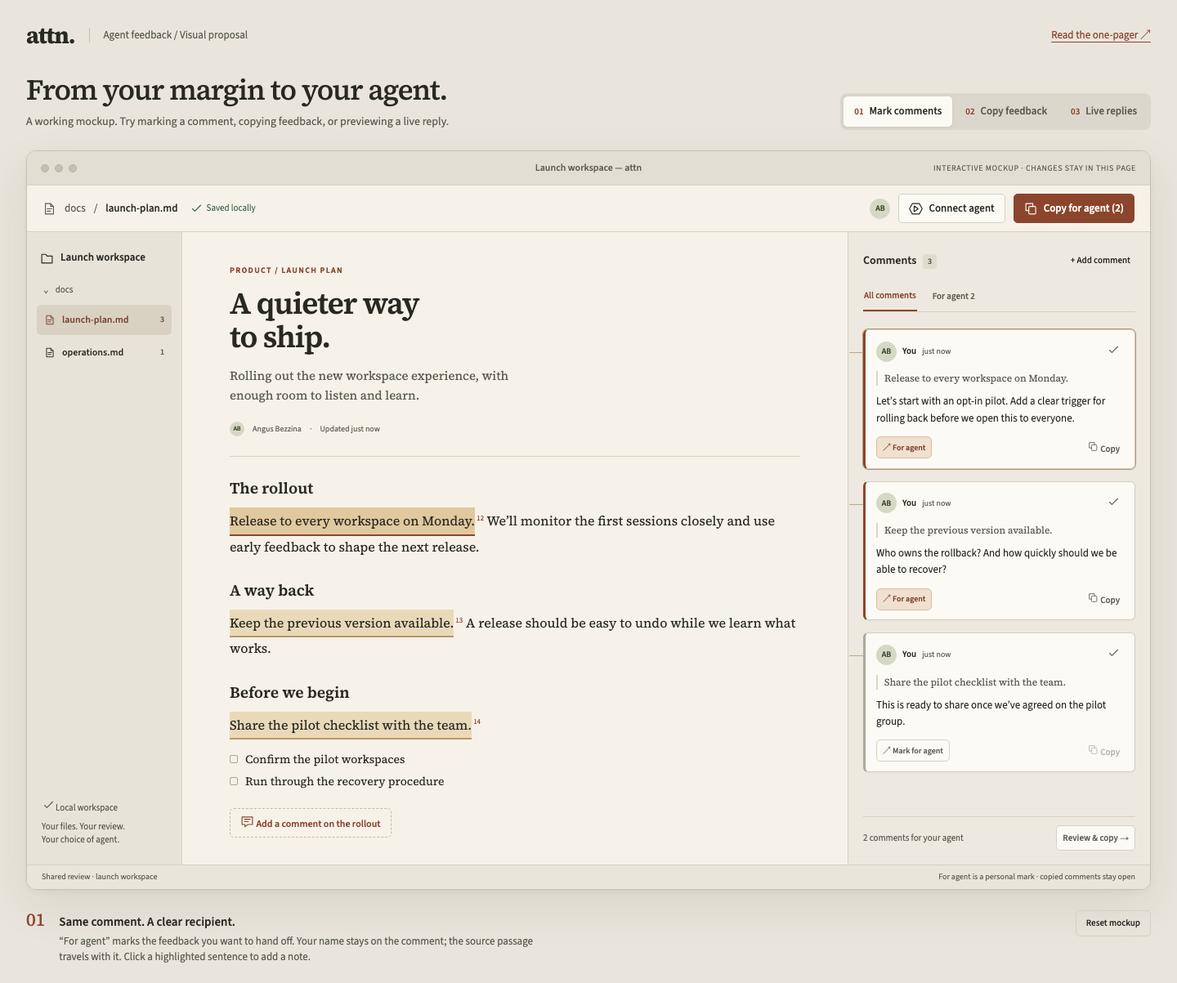
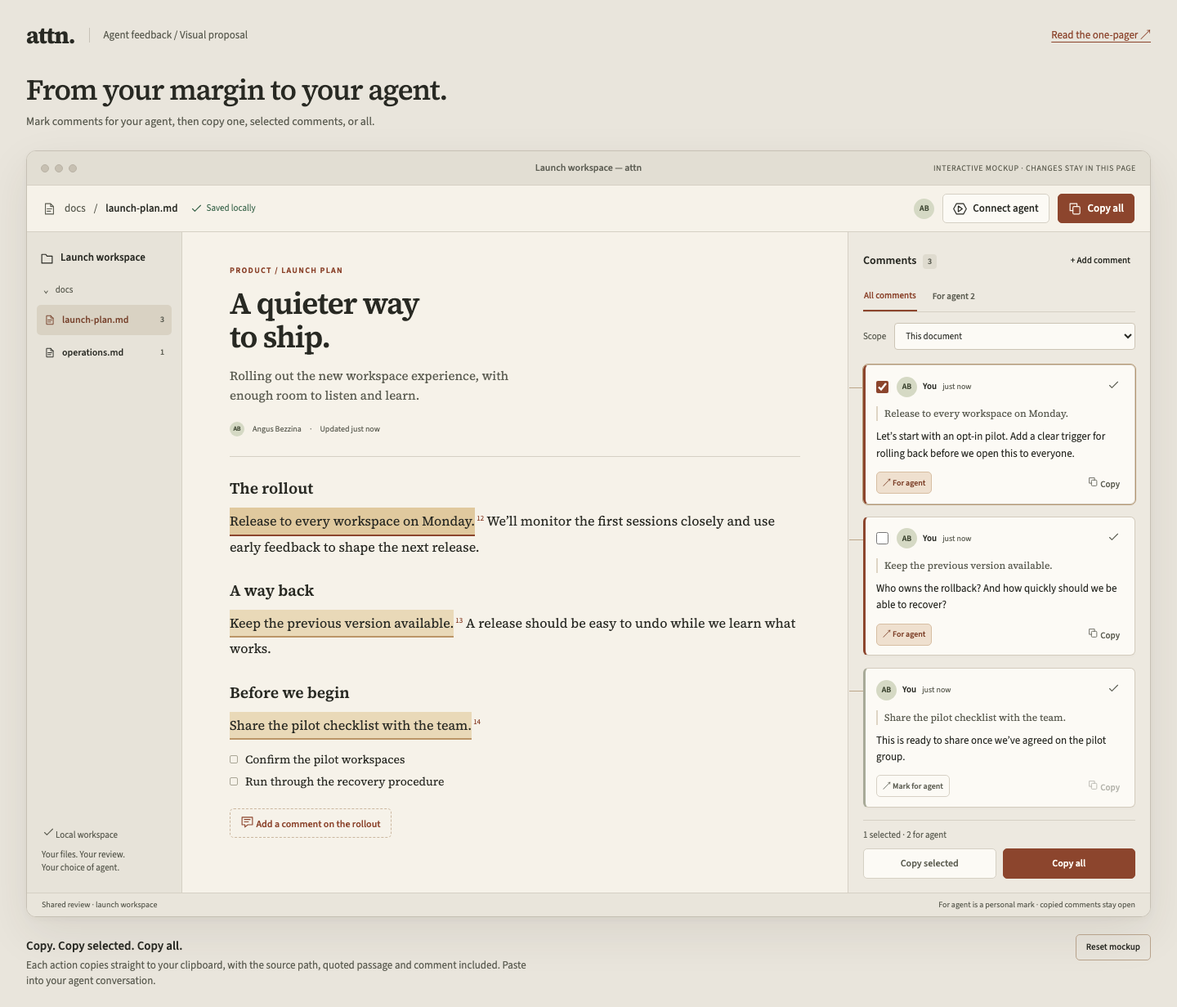
docs: make agent comment copying direct

diff --git a/planning/collab/agent-margin-feedback.html b/planning/collab/agent-margin-feedback.html
@@ -227,10 +227,6 @@ OTHER DEALINGS IN THE FONT SOFTWARE.
     .intro { display: flex; justify-content: space-between; gap: 24px; align-items: end; margin: 7px 0 25px; }
     h1 { font: 500 35px/1.2 var(--serif); letter-spacing: -.03em; margin: 0 0 8px; }
     .intro p { margin: 0; color: var(--muted); font-size: 14px; }
-    .scenes { display: flex; gap: 3px; padding: 4px; background: #dcd7cc; border-radius: 8px; flex-shrink: 0; }
-    .scenes button { border: 0; background: transparent; color: #5b5b50; padding: 9px 13px; font-size: 13px; }
-    .scenes button[aria-pressed="true"] { background: var(--card); color: var(--ink); box-shadow: 0 1px 4px #403a2214; }
-    .scenes span { color: var(--accent); margin-right: 7px; font-size: 11px; }
     .app { border: 1px solid #c6c0b4; border-radius: 12px; background: var(--paper); box-shadow: 0 20px 55px #38302217, 0 3px 8px #38302209; overflow: hidden; }
     .titlebar { height: 42px; display: flex; align-items: center; padding: 0 17px; background: #e2ded3; border-bottom: 1px solid var(--line); gap: 20px; }
     .traffic { display: flex; gap: 7px; }
@@ -266,7 +262,6 @@ OTHER DEALINGS IN THE FONT SOFTWARE.
     .annotation:hover { background: #e1cca1; }
     .annotation.active { background: #e0c99e; box-shadow: 0 2px 0 var(--accent); }
     .annotation:focus-visible { outline: 2px solid var(--accent); outline-offset: 3px; }
-    .annotation.accepted { background: #dce7d7; box-shadow: 0 2px 0 #6f906e; }
     .margin-number { font: 9px var(--sans); vertical-align: super; color: var(--accent); margin-left: 2px; }
     .checklist { padding: 0; list-style: none; font: 14px/1.9 var(--serif); margin: 13px 0 0; }
     .checklist li { display: flex; gap: 9px; align-items: baseline; }
@@ -300,7 +295,6 @@ OTHER DEALINGS IN THE FONT SOFTWARE.
     .hex { clip-path: polygon(25% 0%,75% 0%,100% 50%,75% 100%,25% 100%,0% 50%); width: 21px; height: 21px; display: grid; place-items: center; color: #fff; background: var(--violet); font-size: 13px; flex-shrink: 0; }
     .reply p { font-size: 12px; margin: 0 0 9px; }
     .diff { color: #35553e; background: #e9eee2; border-radius: 4px; padding: 9px; font: 12px/1.6 var(--serif); margin-bottom: 9px; }
-    .accept { background: #e1ead9; color: #35533b; border-color: #b8c8ae; min-height: 29px; padding: 4px 9px; font-size: 11px; }
     .delivery { color: var(--violet); font-size: 11px; margin: 10px 0 0; display: flex; gap: 7px; align-items: center; }
     .delivery::before { content: ""; height: 5px; width: 5px; border-radius: 50%; background: currentColor; }
     .margin-footer { margin-top: auto; padding: 10px 0 0; border-top: 1px solid var(--line); display: flex; align-items: center; justify-content: space-between; gap: 10px; font-size: 11px; color: var(--muted); }
@@ -313,7 +307,6 @@ OTHER DEALINGS IN THE FONT SOFTWARE.
     .dot { width: 6px; height: 6px; border-radius: 50%; background: var(--green); flex-shrink: 0; }
     .app-status { padding: 7px 18px; border-top: 1px solid var(--line); font-size: 10px; color: var(--muted); display: flex; justify-content: space-between; gap: 12px; background: #e9e5db; }
     .caption { padding: 21px 0 22px; display: flex; gap: 17px; align-items: baseline; }
-    .caption .index { font: 22px var(--serif); color: var(--accent); }
     .caption h2 { font: 600 15px var(--sans); margin: 0 0 4px; }
     .caption p { margin: 0; color: var(--muted); font-size: 13px; max-width: 95ch; }
     .caption button { margin-left: auto; min-height: 31px; white-space: nowrap; background: transparent; font-size: 11px; }
@@ -323,19 +316,18 @@ OTHER DEALINGS IN THE FONT SOFTWARE.
     .dialog-head h2 { font: 550 25px/1.2 var(--serif); letter-spacing: -.02em; margin: 0 0 6px; }
     .dialog-head p { color: var(--muted); font-size: 12px; margin: 0; }
     .close { width: 30px; min-height: 30px; height: 30px; padding: 3px; background: transparent; border: 0; }
-    .handoff-grid { display: grid; grid-template-columns: 285px 1fr; }
-    .handoff-list { padding: 18px; border-right: 1px solid var(--line); background: var(--rail); }
     .field-label { display: block; font-size: 11px; font-weight: 600; color: var(--muted); margin-bottom: 6px; }
     select { padding: 7px 9px; background: var(--card); border: 1px solid #ccc4b5; border-radius: 4px; color: var(--ink); font-size: 12px; min-height: 35px; }
-    #scope { width: 100%; margin-bottom: 15px; }
-    .export-comment { display: flex; gap: 8px; align-items: start; border: 1px solid var(--line); padding: 11px; border-radius: 5px; margin-bottom: 9px; background: var(--card); }
-    .export-comment input { margin-top: 3px; accent-color: var(--accent); width: 14px; height: 14px; flex-shrink: 0; }
-    .export-comment strong { font-size: 11px; font-weight: 600; display: block; }
-    .export-comment p { font-size: 12px; margin: 4px 0; }
-    .export-comment small { font-size: 10px; color: var(--muted); }
-    .copy-preview { min-width: 0; padding: 18px; }
-    .preview-head { display: flex; align-items: center; justify-content: space-between; gap: 14px; margin-bottom: 11px; font-size: 11px; color: var(--muted); }
-    #packet { width: 100%; min-height: 302px; resize: vertical; display: block; padding: 14px; background: var(--card); border: 1px solid var(--line); border-radius: 5px; color: #48493d; font: 11px/1.7 ui-monospace, monospace; }
+    .scope-row { display: flex; align-items: center; gap: 10px; margin: -8px 0 18px; color: var(--muted); font-size: 11px; }
+    #scope { flex: 1; min-width: 0; min-height: 31px; font-size: 11px; }
+    .select-comment { width: 15px; height: 15px; margin: 0 3px 0 0; accent-color: var(--accent); }
+    .source-path { font-size: 10px; color: var(--muted); margin: -3px 0 9px; overflow-wrap: anywhere; }
+    .margin-footer { flex-direction: column; align-items: stretch; gap: 8px; }
+    .batch-actions { display: flex; gap: 8px; }
+    .batch-actions button { flex: 1; min-height: 37px; font-size: 12px; }
+    #clipboard-fallback { margin-top: 14px; }
+    #clipboard-fallback label { font-size: 11px; color: var(--muted); display: block; margin-bottom: 6px; }
+    #clipboard-text { width: 100%; min-height: 302px; resize: vertical; display: block; padding: 14px; background: var(--card); border: 1px solid var(--line); border-radius: 5px; color: #48493d; font: 11px/1.7 ui-monospace, monospace; }
     .dialog-foot { padding: 15px 22px; border-top: 1px solid var(--line); display: flex; align-items: center; justify-content: space-between; gap: 20px; }
     .dialog-foot p { font-size: 11px; color: var(--muted); margin: 0; }
     .dialog-foot button { white-space: nowrap; }
@@ -351,21 +343,21 @@ OTHER DEALINGS IN THE FONT SOFTWARE.
     [hidden] { display: none !important; }
     .sr-only { position: absolute; width: 1px; height: 1px; padding: 0; margin: -1px; overflow: hidden; clip: rect(0,0,0,0); white-space: nowrap; border: 0; }
     @media (min-width: 1400px) { .workspace { grid-template-columns: 190px minmax(0, 1fr) 370px; } .document { padding-left: 58px; padding-right: 58px; } .document .prose { font-size: 16px; } }
-    @media (max-width: 1150px) { .frame { width: calc(100% - 36px); } .workspace { grid-template-columns: 150px minmax(0, 1fr) 310px; } .document { padding: 32px 27px; } .document h2 { font-size: 32px; } .intro { align-items: start; } h1 { font-size: 30px; } .scenes button { padding: 8px; font-size: 12px; } .intro p { max-width: 40ch; } }
-    @media (max-width: 900px) { .workspace { grid-template-columns: minmax(0, 1fr) 320px; } .files { display: none; } .intro { display: block; } .intro p { max-width: none; } .scenes { margin-top: 20px; width: max-content; } .saved, .owner-avatar { display: none; } }
+    @media (max-width: 1150px) { .frame { width: calc(100% - 36px); } .workspace { grid-template-columns: 150px minmax(0, 1fr) 310px; } .document { padding: 32px 27px; } .document h2 { font-size: 32px; } .intro { align-items: start; } h1 { font-size: 30px; }  .intro p { max-width: 40ch; } }
+    @media (max-width: 900px) { .workspace { grid-template-columns: minmax(0, 1fr) 320px; } .files { display: none; } .intro { display: block; } .intro p { max-width: none; }  .saved, .owner-avatar { display: none; } }
     @media (max-width: 650px) {
       .frame { width: calc(100% - 24px); } .page-head { padding: 15px 0; } .page-head .identity { gap: 10px; } .page-head .identity span + span { padding-left: 10px; font-size: 11px; } .page-head a { font-size: 11px; }
-      h1 { font-size: 29px; } .intro { margin-top: 14px; margin-bottom: 20px; } .intro p { font-size: 13px; } .scenes { width: 100%; } .scenes button { flex: 1; min-height: 42px; padding: 6px; font-size: 11px; } .scenes span { margin-right: 4px; }
+      h1 { font-size: 29px; } .intro { margin-top: 14px; margin-bottom: 20px; } .intro p { font-size: 13px; }
       .titlebar { padding: 0 12px; height: 33px; } .window-title { display: none; } .mock-label { font-size: 8px; } .traffic i { width: 8px; height: 8px; }
       .app-toolbar { padding: 10px 12px; gap: 10px; flex-wrap: wrap; } .breadcrumb { font-size: 11px; } .toolbar-actions { gap: 7px; } .toolbar-actions button { font-size: 10px; min-height: 33px; padding: 6px 8px; } .toolbar-actions .icon { width: 13px; }
       .workspace { display: block; } .document { padding: 27px 26px; } .document h2 { font-size: 31px; } .document .prose { font-size: 15px; } .doc-description { font-size: 14px; }
       .margin { border-left: 0; border-top: 1px solid var(--line); padding: 20px; } .margin-heading h2 { font-size: 16px; } .comment { padding: 15px; } .comment .body { font-size: 14px; } .comment blockquote { font-size: 13px; } .route, .copy-one, .resolve { min-height: 40px; } .comment-head { font-size: 12px; } .route { font-size: 12px; } .copy-one { font-size: 12px; } .comment::before { width: 17px; }
       .reply p, .diff { font-size: 13px; } .connection strong { font-size: 12px; } .connection p { font-size: 11px; } .connection button { min-height: 35px; } .margin-footer { margin-top: 15px; } .app-status span:last-child { display: none; }
       .caption { align-items: start; gap: 11px; } .caption p { font-size: 12px; } .caption button { font-size: 10px; padding: 5px; }
-      dialog { width: calc(100% - 22px); max-height: calc(100dvh - 28px); } .dialog-head { padding: 19px; } .dialog-head h2 { font-size: 23px; } .handoff-grid { grid-template-columns: 1fr; } .handoff-list { border-right: 0; border-bottom: 1px solid var(--line); padding: 14px; } #export-list { max-height: 170px; overflow: auto; } .copy-preview { padding: 14px; } #packet { min-height: 190px; } .dialog-foot { padding: 14px; gap: 12px; } .dialog-foot p { font-size: 10px; max-width: 20ch; }
+      dialog { width: calc(100% - 22px); max-height: calc(100dvh - 28px); } .dialog-head { padding: 19px; } .dialog-head h2 { font-size: 23px; }     #clipboard-text { min-height: 190px; } .dialog-foot { padding: 14px; gap: 12px; } .dialog-foot p { font-size: 10px; max-width: 20ch; }
     }
     @media (prefers-reduced-motion: no-preference) { .app { animation: arrive .4s ease-out both; } @keyframes arrive { from { opacity: .6; transform: translateY(7px); } to { opacity: 1; transform: none; } } }
-    @media print { .frame { width: 100%; } .scenes, .page-head a, #notice, .caption button { display: none; } .app { box-shadow: none; } .workspace { min-height: auto; } body { background: white; } }
+    @media print { .frame { width: 100%; } .page-head a, #notice, .caption button { display: none; } .app { box-shadow: none; } .workspace { min-height: auto; } body { background: white; } }
   </style>
 </head>
 <body>
@@ -380,20 +372,19 @@ OTHER DEALINGS IN THE FONT SOFTWARE.
   </defs></svg>
   <main class="frame">
     <header class="page-head"><div class="identity"><span class="wordmark">attn.</span><span>Agent feedback / Visual proposal</span></div><a href="agent-margin-feedback.md">Read the one-pager ↗</a></header>
-    <section class="intro" aria-labelledby="page-title"><div><h1>From your margin to your agent.</h1><p>A working mockup. Try marking a comment, copying feedback, or previewing a live reply.</p></div><nav class="scenes" aria-label="Prototype views"><button data-scene="mark" aria-pressed="true"><span>01</span>Mark comments</button><button data-scene="copy" aria-pressed="false"><span>02</span>Copy feedback</button><button data-scene="live" aria-pressed="false"><span>03</span>Live replies</button></nav></section>
+    <section class="intro" aria-labelledby="page-title"><div><h1 id="page-title">From your margin to your agent.</h1><p>Mark comments for your agent, then copy one, selected comments, or all.</p></div></section>
     <section class="app" aria-label="Proposed attn interface">
       <div class="titlebar"><div class="traffic" aria-hidden="true"><i></i><i></i><i></i></div><span class="window-title">Launch workspace — attn</span><span class="mock-label">Interactive mockup · changes stay in this page</span></div>
-      <div class="app-toolbar"><span class="breadcrumb"><svg class="icon" aria-hidden="true"><use href="#i-file"/></svg><span>docs</span><span>/</span><strong id="active-filename">launch-plan.md</strong></span><span class="saved"><svg class="icon" aria-hidden="true"><use href="#i-check"/></svg>Saved locally</span><div class="toolbar-actions"><span class="owner-avatar" title="You">AB</span><button id="agent-toggle"><svg class="icon" aria-hidden="true"><use href="#i-agent"/></svg><span id="agent-button-text">Connect agent</span></button><button class="primary" id="open-copy"><svg class="icon" aria-hidden="true"><use href="#i-copy"/></svg><span id="copy-button-text">Copy for agent (2)</span></button></div></div>
+      <div class="app-toolbar"><span class="breadcrumb"><svg class="icon" aria-hidden="true"><use href="#i-file"/></svg><span>docs</span><span>/</span><strong id="active-filename">launch-plan.md</strong></span><span class="saved"><svg class="icon" aria-hidden="true"><use href="#i-check"/></svg>Saved locally</span><div class="toolbar-actions"><span class="owner-avatar" title="You">AB</span><button id="agent-toggle"><svg class="icon" aria-hidden="true"><use href="#i-agent"/></svg><span id="agent-button-text">Connect agent</span></button><button class="primary" id="copy-all-toolbar"><svg class="icon" aria-hidden="true"><use href="#i-copy"/></svg><span>Copy all</span></button></div></div>
       <div class="workspace">
         <nav class="files" aria-label="Workspace files"><div class="project"><svg class="icon" aria-hidden="true"><use href="#i-folder"/></svg>Launch workspace</div><div class="folder">⌄ <span>docs</span></div><button class="file" data-doc="launch" aria-current="page"><svg class="icon" aria-hidden="true"><use href="#i-file"/></svg>launch-plan.md<span class="file-count">3</span></button><button class="file" data-doc="operations"><svg class="icon" aria-hidden="true"><use href="#i-file"/></svg>operations.md<span class="file-count">1</span></button><div class="files-bottom"><svg class="icon" aria-hidden="true"><use href="#i-check"/></svg>Local workspace<p>Your files. Your review.<br>Your choice of agent.</p></div></nav>
         <article class="document" id="document" aria-label="Document preview"></article>
-        <aside class="margin" aria-label="Review margin"><div class="margin-heading"><h2>Comments <span id="comment-count" class="count-badge">3</span></h2><button class="ghost" id="new-note">+ Add comment</button></div><div class="filter-tabs" aria-label="Comment filter"><button data-filter="all" aria-pressed="true">All comments</button><button data-filter="agent" aria-pressed="false">For agent <span id="agent-count">2</span></button></div><div class="connection" id="connection" hidden><span class="dot" aria-hidden="true"></span><div><strong id="connection-title">My agent is listening</strong><p>Scripted preview · no model connected</p></div><button id="pause">Pause</button></div><div id="comments"></div><div class="margin-footer"><span id="margin-status">2 comments for your agent</span><button id="copy-footer">Review & copy →</button></div></aside>
+        <aside class="margin" aria-label="Review margin"><div class="margin-heading"><h2>Comments <span id="comment-count" class="count-badge">3</span></h2><button class="ghost" id="new-note">+ Add comment</button></div><div class="filter-tabs" aria-label="Comment filter"><button data-filter="all" aria-pressed="true">All comments</button><button data-filter="agent" aria-pressed="false">For agent <span id="agent-count">2</span></button></div><div class="scope-row"><label for="scope">Scope</label><select id="scope"><option value="document">This document</option><option value="workspace">Whole workspace</option></select></div><div class="connection" id="connection" hidden><span class="dot" aria-hidden="true"></span><div><strong id="connection-title">My agent is listening</strong><p>Scripted preview · no model connected</p></div><button id="pause">Pause</button></div><div id="comments"></div><div class="margin-footer"><span id="margin-status">1 selected · 2 for agent</span><div class="batch-actions"><button id="copy-selected">Copy selected</button><button class="primary" id="copy-all">Copy all</button></div></div><div id="clipboard-fallback" hidden><label for="clipboard-text">Clipboard unavailable. Select and copy this text.</label><textarea id="clipboard-text" readonly spellcheck="false"></textarea></div></aside>
       </div>
       <div class="app-status"><span id="status-left">Shared review · launch workspace</span><span>For agent is a personal mark · copied comments stay open</span></div>
     </section>
-    <section class="caption" aria-live="polite"><span class="index" id="caption-number">01</span><div><h2 id="caption-title">Same comment. A clear recipient.</h2><p id="caption-body">“For agent” marks the feedback you want to hand off. Your name stays on the comment; the source passage travels with it. Click a highlighted sentence to add a note.</p></div><button id="reset">Reset mockup</button></section>
+    <section class="caption"><div><h2>Copy. Copy selected. Copy all.</h2><p>Each action copies straight to your clipboard, with the source path, quoted passage and comment included. Paste into your agent conversation.</p></div><button id="reset">Reset mockup</button></section>
   </main>
-  <dialog id="handoff" aria-labelledby="handoff-title"><div class="dialog-head"><div><h2 id="handoff-title">Copy feedback for your agent</h2><p>Everything needed to find the passage and make the change.</p></div><button class="close" id="close-copy" aria-label="Close copy panel"><svg class="icon" aria-hidden="true"><use href="#i-close"/></svg></button></div><div class="handoff-grid"><div class="handoff-list"><label for="scope" class="field-label">Include comments from</label><select id="scope"><option value="document">This document</option><option value="workspace">Whole workspace</option></select><div id="export-list"></div></div><div class="copy-preview"><div class="preview-head"><label for="packet">Exact clipboard preview</label><label class="sr-only" for="format">Feedback format</label><select id="format"><option value="markdown">Markdown</option><option value="json">JSON</option></select></div><textarea id="packet" readonly spellcheck="false"></textarea></div></div><div class="dialog-foot"><p>Paste into any agent conversation.<br>Your comments will remain open.</p><button class="primary" id="copy-selected">Copy 2 comments</button></div></dialog>
   <dialog id="composer" aria-labelledby="composer-title"><form id="compose-form"><div class="dialog-head"><div><h2 id="composer-title">Leave a comment</h2><p>On the selected passage</p></div><button class="close" type="button" id="close-composer" aria-label="Close comment composer"><svg class="icon" aria-hidden="true"><use href="#i-close"/></svg></button></div><div class="composer-body"><blockquote id="composer-quote"></blockquote><label class="sr-only" for="new-comment">Your comment</label><textarea id="new-comment" required maxlength="1200" placeholder="What would you like to change?"></textarea><label class="composer-choice"><input id="new-for-agent" type="checkbox" checked>For agent</label></div><div class="dialog-foot"><p>The author stays you.</p><button class="primary" type="submit">Post comment</button></div></form></dialog>
   <div id="notice" role="status" aria-live="polite" popover="manual"></div>
   <noscript><p class="frame">Enable JavaScript to see the interactive product mockup. <a href="agent-margin-feedback.md">Read the Markdown plan.</a></p></noscript>
@@ -404,23 +395,22 @@ OTHER DEALINGS IN THE FONT SOFTWARE.
     const icon = name => '<svg class="icon" aria-hidden="true"><use href="#i-' + name + '"/></svg>';
     const seed = [
       {id:'F-12', doc:'launch', path:'docs/launch-plan.md', section:'The rollout', quote:'Release to every workspace on Monday.', body:'Let’s start with an opt-in pilot. Add a clear trigger for rolling back before we open this to everyone.', marked:true, selected:true, replacement:'Start with a five-workspace opt-in pilot on Monday. Roll back if the error rate exceeds 1% for five minutes.'},
-      {id:'F-13', doc:'launch', path:'docs/launch-plan.md', section:'A way back', quote:'Keep the previous version available.', body:'Who owns the rollback? And how quickly should we be able to recover?', marked:true, selected:true, replacement:'The on-call engineer owns rollback. Keep the previous version ready and target recovery within ten minutes.'},
-      {id:'F-14', doc:'launch', path:'docs/launch-plan.md', section:'Before we begin', quote:'Share the pilot checklist with the team.', body:'This is ready to share once we’ve agreed on the pilot group.', marked:false, selected:true},
-      {id:'F-15', doc:'operations', path:'docs/operations.md', section:'Backups', quote:'Backups run each night.', body:'Add a restore drill before the pilot starts.', marked:true, selected:true, replacement:'Backups run nightly. Complete and document a restore drill before starting the pilot.'}
+      {id:'F-13', doc:'launch', path:'docs/launch-plan.md', section:'A way back', quote:'Keep the previous version available.', body:'Who owns the rollback? And how quickly should we be able to recover?', marked:true, selected:false, replacement:'The on-call engineer owns rollback. Keep the previous version ready and target recovery within ten minutes.'},
+      {id:'F-14', doc:'launch', path:'docs/launch-plan.md', section:'Before we begin', quote:'Share the pilot checklist with the team.', body:'This is ready to share once we’ve agreed on the pilot group.', marked:false, selected:false},
+      {id:'F-15', doc:'operations', path:'docs/operations.md', section:'Backups', quote:'Backups run each night.', body:'Add a restore drill before the pilot starts.', marked:true, selected:false, replacement:'Backups run nightly. Complete and document a restore drill before starting the pilot.'}
     ];
-    let comments = structuredClone(seed), currentDoc = 'launch', filter = 'all', scene = 'mark', activeId = 'F-12', listening = false, connected = false, sequence = 16, selectedQuote = seed[0], noticeTimer;
+    let comments = structuredClone(seed), currentDoc = 'launch', filter = 'all', activeId = 'F-12', listening = false, connected = false, sequence = 16, selectedQuote = seed[0], noticeTimer;
     const timers = new Map();
-    function openComments() { return comments.filter(c => c.doc === currentDoc && !c.resolved); }
+    function openComments() { return comments.filter(c => !c.resolved && ($('scope').value === 'workspace' || c.doc === currentDoc)); }
     function marked() { return openComments().filter(c => c.marked); }
     function exportable() { return comments.filter(c => c.marked && !c.resolved && ($('scope').value === 'workspace' || c.doc === currentDoc)); }
     function packet(items) { return {schema:'attn.feedback.v1', workspace:'launch-workspace', instructions:['Address this feedback in the available source files.','Check each quote against the current source before editing.','If a source is unavailable or ambiguous, report it instead of guessing.','Return changes and questions by feedback ID.'], feedback:[...items].sort((a,b)=>a.path.localeCompare(b.path)||Number(a.id.slice(2))-Number(b.id.slice(2))).map(c=>({id:c.id, threadId:'t-'+c.id.slice(2), revision:1, sourcePath:c.path, snapshotId:'s-4', section:c.section, anchorStatus:'exact', quote:c.quote, request:c.body, replies:c.replied?[{author:'My agent (simulation)',body:c.replacement||'I would inspect the source and propose an update here.'}]:[]}))}; }
     function serialize(items) {
       const data=packet(items);
-      if($('format').value==='json') return JSON.stringify(data,null,2);
       return '# attn feedback v1\nWorkspace: '+data.workspace+'\n\n'+data.instructions.join('\n')+'\n\n'+data.feedback.map(c=>'['+c.id+'] '+c.sourcePath+'\nThread: '+c.threadId+' · Snapshot: '+c.snapshotId+'\nSection: '+c.section+' · Anchor: '+c.anchorStatus+'\n\n> '+c.quote+'\n\nRequest: '+c.request+c.replies.map(r=>'\n\nReply ('+r.author+'): '+r.body).join('')).join('\n\n---\n\n');
     }
     function notify(message) { clearTimeout(noticeTimer); $('notice').textContent=message; if(!$('notice').matches(':popover-open')) $('notice').showPopover(); noticeTimer=setTimeout(()=>{$('notice').hidePopover();$('notice').textContent='';},4000); }
-    function annotation(c) { return '<button class="annotation '+(activeId===c.id?'active ':'')+(c.accepted?'accepted':'')+'" data-anchor="'+c.id+'" aria-label="Comment on: '+esc(c.accepted?c.replacement:c.quote)+'">'+esc(c.accepted?c.replacement:c.quote)+'</button><sup class="margin-number">'+c.id.slice(2)+'</sup>'; }
+    function annotation(c) { return '<button class="annotation '+(activeId===c.id?'active':'')+'" data-anchor="'+c.id+'" aria-label="Comment on: '+esc(c.quote)+'">'+esc(c.quote)+'</button><sup class="margin-number">'+c.id.slice(2)+'</sup>'; }
     function renderDocument() {
       if(currentDoc==='launch') {
         const [a,b,c]=comments;
@@ -432,16 +422,7 @@ OTHER DEALINGS IN THE FONT SOFTWARE.
     }
     function renderComments() {
       const shown=openComments().filter(c=>filter==='all'||c.marked);
-      $('comments').innerHTML=shown.map(c=>'<article class="comment '+(c.marked?'marked ':'')+(activeId===c.id?'active':'')+'" aria-label="Comment '+c.id+'"><header class="comment-head"><span class="avatar" aria-hidden="true">AB</span><strong>You</strong><time>just now</time><button class="resolve" data-action="resolve" data-id="'+c.id+'" aria-label="Resolve '+c.id+'">'+icon('check')+'</button></header><blockquote>'+esc(c.quote)+'</blockquote><p class="body">'+esc(c.body)+'</p><div class="comment-actions"><button class="route" id="mark-'+c.id+'" data-action="mark" data-id="'+c.id+'" aria-label="For agent: '+c.id+'" aria-pressed="'+c.marked+'">'+(c.marked?'↗ For agent':'↗ Mark for agent')+'</button><button class="copy-one" id="copy-'+c.id+'" data-action="copy" data-id="'+c.id+'" aria-label="Copy '+c.id+'" '+(c.marked?'':'disabled')+'>'+icon('copy')+' Copy</button></div>'+(c.replied?'<div class="reply"><div class="agent-author"><span class="hex" aria-hidden="true">⊳</span>My agent <span>· preview</span></div><p>'+ (c.replacement?'Here’s a proposed update:':'I would inspect the source and propose a change for this feedback. This response is simulated.')+'</p>'+(c.replacement?'<div class="diff">+ '+esc(c.replacement)+'</div><button class="accept" data-action="accept" data-id="'+c.id+'" '+(c.accepted?'disabled':'')+'>'+(c.accepted?'✓ Applied to preview':'Accept in preview')+'</button>':'')+'</div>':c.status?'<p class="delivery">'+esc(c.status)+'</p>':'')+'</article>').join('')||'<p class="empty">'+(filter==='agent'?'Mark a comment “For agent” to see it here.':'All comments in this document are resolved.')+'</p>';
-    }
-    function renderExport() {
-      const focused=document.activeElement?.id;
-      $('export-list').innerHTML=exportable().map(c=>'<label class="export-comment"><input id="select-'+c.id+'" data-select="'+c.id+'" type="checkbox" '+(c.selected?'checked':'')+' aria-label="Include '+c.id+'"><span><strong>'+esc(c.path)+'</strong><p>'+esc(c.body)+'</p><small>'+c.id+' · '+esc(c.section)+'</small></span></label>').join('')||'<p class="empty">No open comments marked for agent in this scope.</p>';
-      const selected=exportable().filter(c=>c.selected);
-      $('packet').value=serialize(selected);
-      $('copy-selected').textContent='Copy '+selected.length+(selected.length===1?' comment':' comments');
-      $('copy-selected').disabled=!selected.length;
-      if(focused&&$(focused)) $(focused).focus({preventScroll:true});
+      $('comments').innerHTML=shown.map(c=>'<article class="comment '+(c.marked?'marked ':'')+(activeId===c.id?'active':'')+'" aria-label="Comment '+c.id+'"><header class="comment-head">'+(c.marked?'<input class="select-comment" id="select-'+c.id+'" data-select="'+c.id+'" type="checkbox" '+(c.selected?'checked':'')+' aria-label="Select '+c.id+'">':'')+'<span class="avatar" aria-hidden="true">AB</span><strong>You</strong><time>just now</time><button class="resolve" data-action="resolve" data-id="'+c.id+'" aria-label="Resolve '+c.id+'">'+icon('check')+'</button></header>'+($('scope').value==='workspace'?'<p class="source-path">'+esc(c.path)+'</p>':'')+'<blockquote>'+esc(c.quote)+'</blockquote><p class="body">'+esc(c.body)+'</p><div class="comment-actions"><button class="route" id="mark-'+c.id+'" data-action="mark" data-id="'+c.id+'" aria-label="For agent: '+c.id+'" aria-pressed="'+c.marked+'">'+(c.marked?'↗ For agent':'↗ Mark for agent')+'</button><button class="copy-one" id="copy-'+c.id+'" data-action="copy" data-id="'+c.id+'" aria-label="Copy '+c.id+'" '+(c.marked?'':'disabled')+'>'+icon('copy')+' Copy</button></div>'+(c.replied?'<div class="reply"><div class="agent-author"><span class="hex" aria-hidden="true">⊳</span>My agent <span>· preview</span></div><p>'+ (c.replacement?'Here’s a proposed update:':'I would inspect the source and propose a change for this feedback. This response is simulated.')+'</p>'+(c.replacement?'<div class="diff">+ '+esc(c.replacement)+'</div>':'')+'</div>':c.status?'<p class="delivery">'+esc(c.status)+'</p>':'')+'</article>').join('')||'<p class="empty">'+(filter==='agent'?'Mark a comment “For agent” to see it here.':'All comments in this document are resolved.')+'</p>';
     }
     function render() {
       const focused=document.activeElement?.id;
@@ -449,18 +430,15 @@ OTHER DEALINGS IN THE FONT SOFTWARE.
       $('active-filename').textContent=currentDoc==='launch'?'launch-plan.md':'operations.md';
       $('comment-count').textContent=openComments().length;
       $('agent-count').textContent=marked().length;
-      $('copy-button-text').textContent='Copy for agent ('+marked().length+')';
-      $('margin-status').textContent=marked().length+' comments for your agent';
+      $('copy-all').disabled=$('copy-all-toolbar').disabled=!exportable().length;
+      $('copy-selected').disabled=!exportable().some(c=>c.selected);
+      $('margin-status').textContent=exportable().filter(c=>c.selected).length+' selected · '+exportable().length+' for agent';
       $('connection').hidden=!connected;
       $('connection-title').textContent=listening?'My agent is listening':'My agent is paused';
       $('pause').textContent=listening?'Pause':'Resume';
       $('agent-button-text').textContent=connected?(listening?'Listening':'Paused'):'Connect agent';
       document.querySelectorAll('[data-doc]').forEach(b=>{if(b.dataset.doc===currentDoc)b.setAttribute('aria-current','page');else b.removeAttribute('aria-current');});
       document.querySelectorAll('[data-filter]').forEach(b=>b.setAttribute('aria-pressed',String(b.dataset.filter===filter)));
-      document.querySelectorAll('[data-scene]').forEach(b=>b.setAttribute('aria-pressed',String(b.dataset.scene===scene)));
-      const captions={mark:['01','Same comment. A clear recipient.','“For agent” marks the feedback you want to hand off. Your name stays on the comment; the source passage travels with it. Click a highlighted sentence to add a note.'],copy:['02','A useful handoff, in one paste.','Choose one comment or collect the open feedback across your workspace. The packet includes source paths, exact quotes and your requests, ready for any agent conversation.'],live:['03','A conversation beside the work.','A connected agent receives marked comments and responds in the original thread. Try accepting a proposed change in the preview. Replies here are scripted; no agent or model is connected.']};
-      [$('caption-number').textContent,$('caption-title').textContent,$('caption-body').textContent]=captions[scene];
-      if($('handoff').open) renderExport();
       if(focused&&$(focused)) $(focused).focus({preventScroll:true});
     }
     function schedule(c) {
@@ -473,15 +451,15 @@ OTHER DEALINGS IN THE FONT SOFTWARE.
       },500));
     }
     function cancel(c) {clearTimeout(timers.get(c.id));timers.delete(c.id);c.status='';}
-    function connect() {connected=true;listening=true;scene='live';comments.forEach(schedule);render();}
-    function openCopy() {scene='copy';$('scope').value='document';render();$('handoff').showModal();renderExport();}
+    function connect() {connected=true;listening=true;comments.forEach(schedule);render();}
     function compose(c) {selectedQuote=c;$('composer-quote').textContent=c.quote;$('new-comment').value='';$('new-for-agent').checked=true;$('composer').showModal();$('new-comment').focus();}
     async function copy(items) {
+      if(!items.length)return;
+      $('clipboard-fallback').hidden=true;
       const text=serialize(items);
       try {if(!navigator.clipboard?.writeText)throw new Error('Clipboard unavailable');await navigator.clipboard.writeText(text);notify('Copied '+items.length+(items.length===1?' comment.':' comments.')+' Threads stay open.');}
-      catch {if(!$('handoff').open){$('handoff').showModal();renderExport();}$('packet').value=text;$('packet').focus();$('packet').select();notify('Preview selected. Use your Copy shortcut to copy the text.');}
+      catch {$('clipboard-fallback').hidden=false;$('clipboard-text').value=text;$('clipboard-text').focus();$('clipboard-text').select();notify('Use your Copy shortcut to copy the selected text.');}
     }
-    document.querySelectorAll('[data-scene]').forEach(b=>b.addEventListener('click',()=>{if(b.dataset.scene==='copy')openCopy();else if(b.dataset.scene==='live')connect();else{scene='mark';listening=false;comments.forEach(cancel);render();}}));
     document.querySelectorAll('[data-doc]').forEach(b=>b.addEventListener('click',()=>{currentDoc=b.dataset.doc;activeId=comments.find(c=>c.doc===currentDoc).id;render();}));
     document.querySelectorAll('[data-filter]').forEach(b=>b.addEventListener('click',()=>{filter=b.dataset.filter;render();}));
     $('document').addEventListener('click',e=>{const b=e.target.closest('[data-anchor],[data-compose]');if(!b)return;const id=b.dataset.anchor||b.dataset.compose;activeId=id;render();compose(comments.find(c=>c.id===id));});
@@ -490,19 +468,18 @@ OTHER DEALINGS IN THE FONT SOFTWARE.
       if(b.dataset.action==='mark'){c.marked=!c.marked;c.marked?schedule(c):cancel(c);render();}
       if(b.dataset.action==='copy')copy([c]);
       if(b.dataset.action==='resolve'){c.resolved=true;cancel(c);render();notify('Comment resolved in this preview.');}
-      if(b.dataset.action==='accept'){c.accepted=true;render();notify('Applied to the document preview. The comment remains open.');}
     });
-    $('open-copy').addEventListener('click',openCopy);$('copy-footer').addEventListener('click',openCopy);
-    $('close-copy').addEventListener('click',()=>$('handoff').close());
+    $('copy-all-toolbar').addEventListener('click',()=>copy(exportable()));
+    $('copy-all').addEventListener('click',()=>copy(exportable()));
     $('close-composer').addEventListener('click',()=>$('composer').close());
-    $('scope').addEventListener('change',renderExport);$('format').addEventListener('change',renderExport);
-    $('export-list').addEventListener('change',e=>{if(!e.target.dataset.select)return;comments.find(c=>c.id===e.target.dataset.select).selected=e.target.checked;renderExport();});
+    $('scope').addEventListener('change',render);
+    $('comments').addEventListener('change',e=>{if(!e.target.dataset.select)return;comments.find(c=>c.id===e.target.dataset.select).selected=e.target.checked;render();});
     $('copy-selected').addEventListener('click',()=>copy(exportable().filter(c=>c.selected)));
     $('agent-toggle').addEventListener('click',()=>{if(!connected)connect();else{listening=!listening;comments.forEach(c=>listening?schedule(c):cancel(c));render();}});
     $('pause').addEventListener('click',()=>{listening=!listening;comments.forEach(c=>listening?schedule(c):cancel(c));render();});
     $('new-note').addEventListener('click',()=>compose(comments.find(c=>c.doc===currentDoc)));
     $('compose-form').addEventListener('submit',e=>{e.preventDefault();const body=$('new-comment').value.trim();if(!body)return;const c={id:'F-'+sequence++,doc:currentDoc,path:selectedQuote.path,section:selectedQuote.section,quote:selectedQuote.quote,body,marked:$('new-for-agent').checked,selected:true};comments.push(c);activeId=c.id;filter='all';$('composer').close();schedule(c);render();notify('Comment posted'+(c.marked?' for agent.':'.'));});
-    $('reset').addEventListener('click',()=>{comments.forEach(cancel);comments=structuredClone(seed);currentDoc='launch';filter='all';scene='mark';activeId='F-12';listening=false;connected=false;sequence=16;$('scope').value='document';$('format').value='markdown';$('handoff').close();$('composer').close();render();notify('Mockup reset.');});
+    $('reset').addEventListener('click',()=>{comments.forEach(cancel);comments=structuredClone(seed);currentDoc='launch';filter='all';activeId='F-12';listening=false;connected=false;sequence=16;$('scope').value='document';$('clipboard-fallback').hidden=true;$('composer').close();render();notify('Mockup reset.');});
     render();
   </script>
 </body>

diff --git a/planning/collab/agent-margin-feedback.md b/planning/collab/agent-margin-feedback.md
@@ -2,14 +2,14 @@
 
 **Proposal for review · 7 September 2026 · attn-qiwt**
 
-[Visual product mockup](agent-margin-feedback.html) · [Still preview](agent-margin-feedback-preview.png) · Try marking, copying and live replies. Product implementation follows review.
+[Visual product mockup](agent-margin-feedback.html) · [Still preview](agent-margin-feedback-preview.png) · Copy directly from the margin. Product implementation follows review.
 
 **Outcome.** Mark margin comments **For agent**, copy one or a batch into any agent conversation, and get useful changes without re-explaining the document. An optional live mode delivers the same feedback automatically and brings replies back into the original threads.
 
 ## The experience
 
 - Add **For agent** to the comment composer and existing thread menu. Keep the human author; show a small recipient badge. A marked thread includes its quoted passage and conversation.
-- Offer **Copy for agent**, **Copy selected**, and **Copy all open**, scoped to a document or workspace. Show the count and exact preview. Exclude resolved threads by default; copying never resolves a comment.
+- Offer **Copy** on each marked comment, inline checkboxes for **Copy selected**, and **Copy all**, scoped to a document or workspace. Each action writes directly to the clipboard: no review panel, preview step or confirmation. Show the selection count; exclude resolved threads by default. Copying never resolves a comment.
 - Persist personal routing separately from shared events, keyed by workspace, room and thread. Marks survive reload on that device; comments retain their room visibility. Cross-device routing sync comes later.
 - Support native, hosted-owner and reviewer surfaces, including Markdown and HTML comments. V1 uses existing review rooms; commenting on unshared local documents is a separate extension.
 
@@ -35,7 +35,7 @@ Editing requires source access. Browser-only documents include excerpts and requ
 
 | Stage | Deliverable | Exit evidence |
 | --- | --- | --- |
-| **1 · Mark and copy** | Durable personal routing, shared packet builder, composer/card actions, document/workspace bulk selection and clipboard fallback. | One and many comments export with correct context across native/hosted/reviewer; reload, stale anchors, HTML, empty selection and large batches verified. |
+| **1 · Mark and copy** | Durable personal routing, shared packet builder, direct Copy / Copy selected / Copy all actions, inline selection, document/workspace scope and clipboard fallback. | All three actions copy immediately with correct context across native/hosted/reviewer; reload, stale anchors, HTML, empty selection and large batches verified. |
 | **2 · Agent tools** | Provider-neutral CLI to list/export feedback, wait after a cursor, acknowledge receipt, reply by thread ID and submit a diff. Add an MCP adapter over that same service. | A shell consumer and an MCP client use the same contract; replies land under the correct comment and suggestions retain human acceptance. |
 | **3 · Listen** | Explicit workspace/session connection, pause/resume, queue and status. Native first; hosted comments require an explicitly paired local bridge or connected agent runner. | Two independent agent hosts, reconnect/replay, cancellation, duplicate delivery and follow-up feedback exercised end to end. |
 
